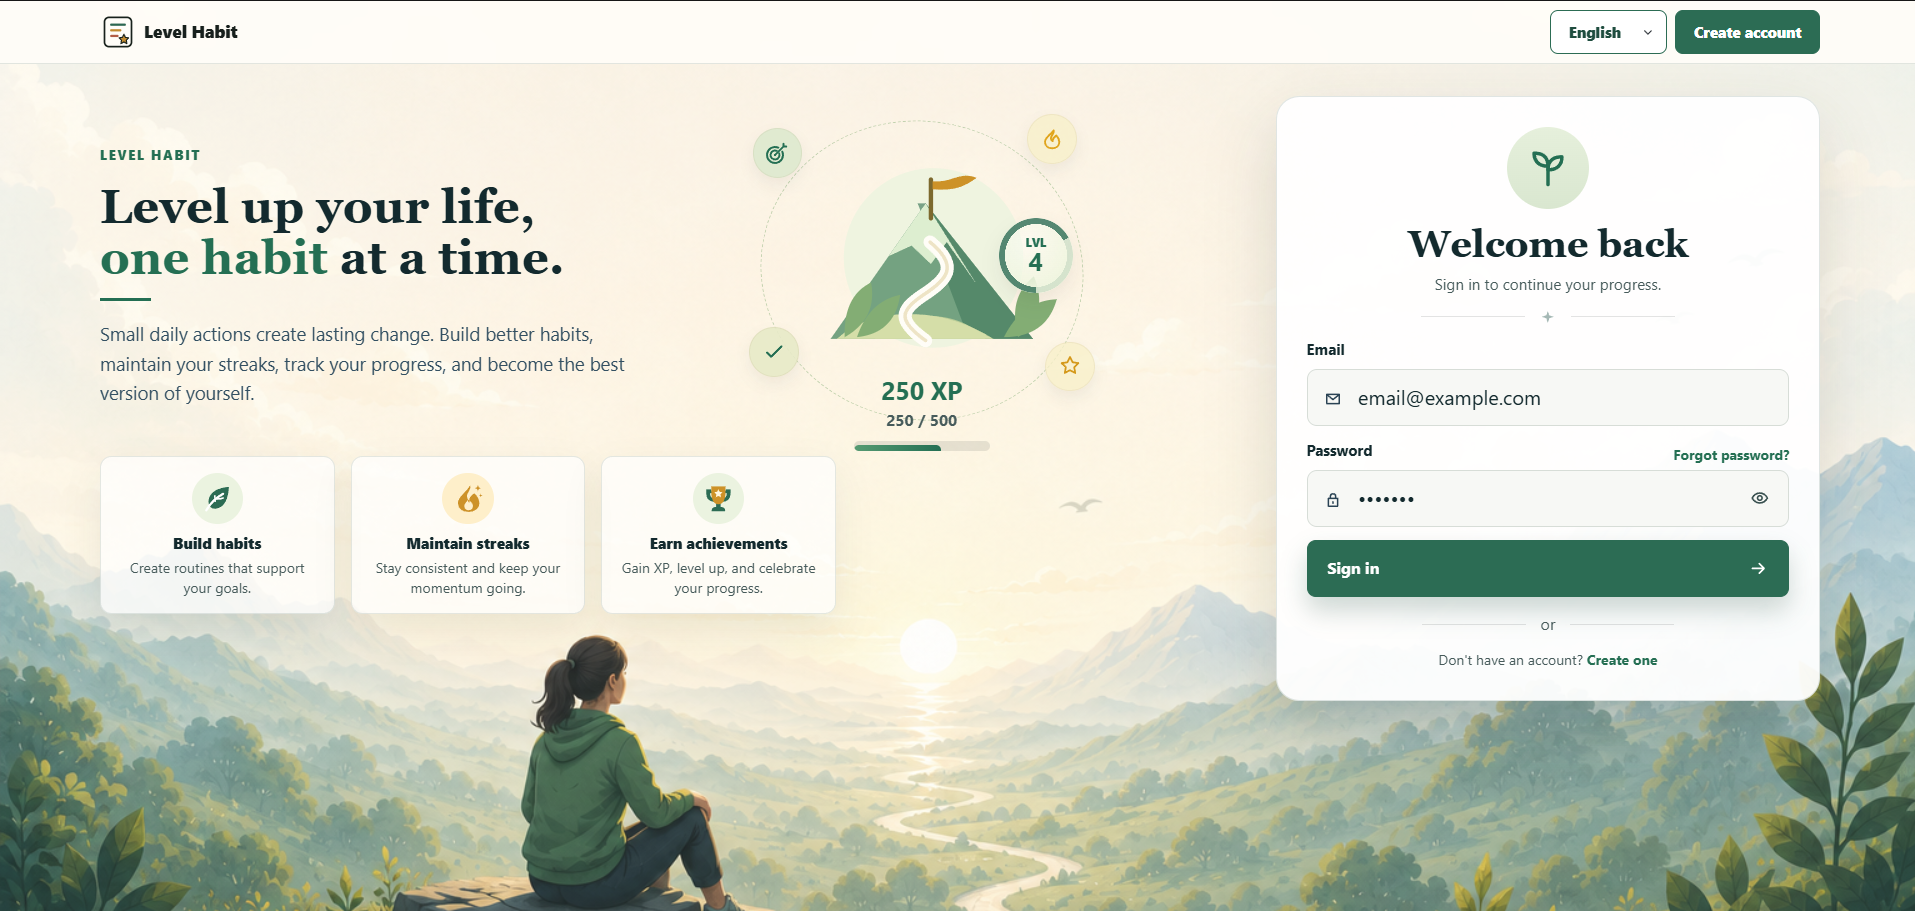
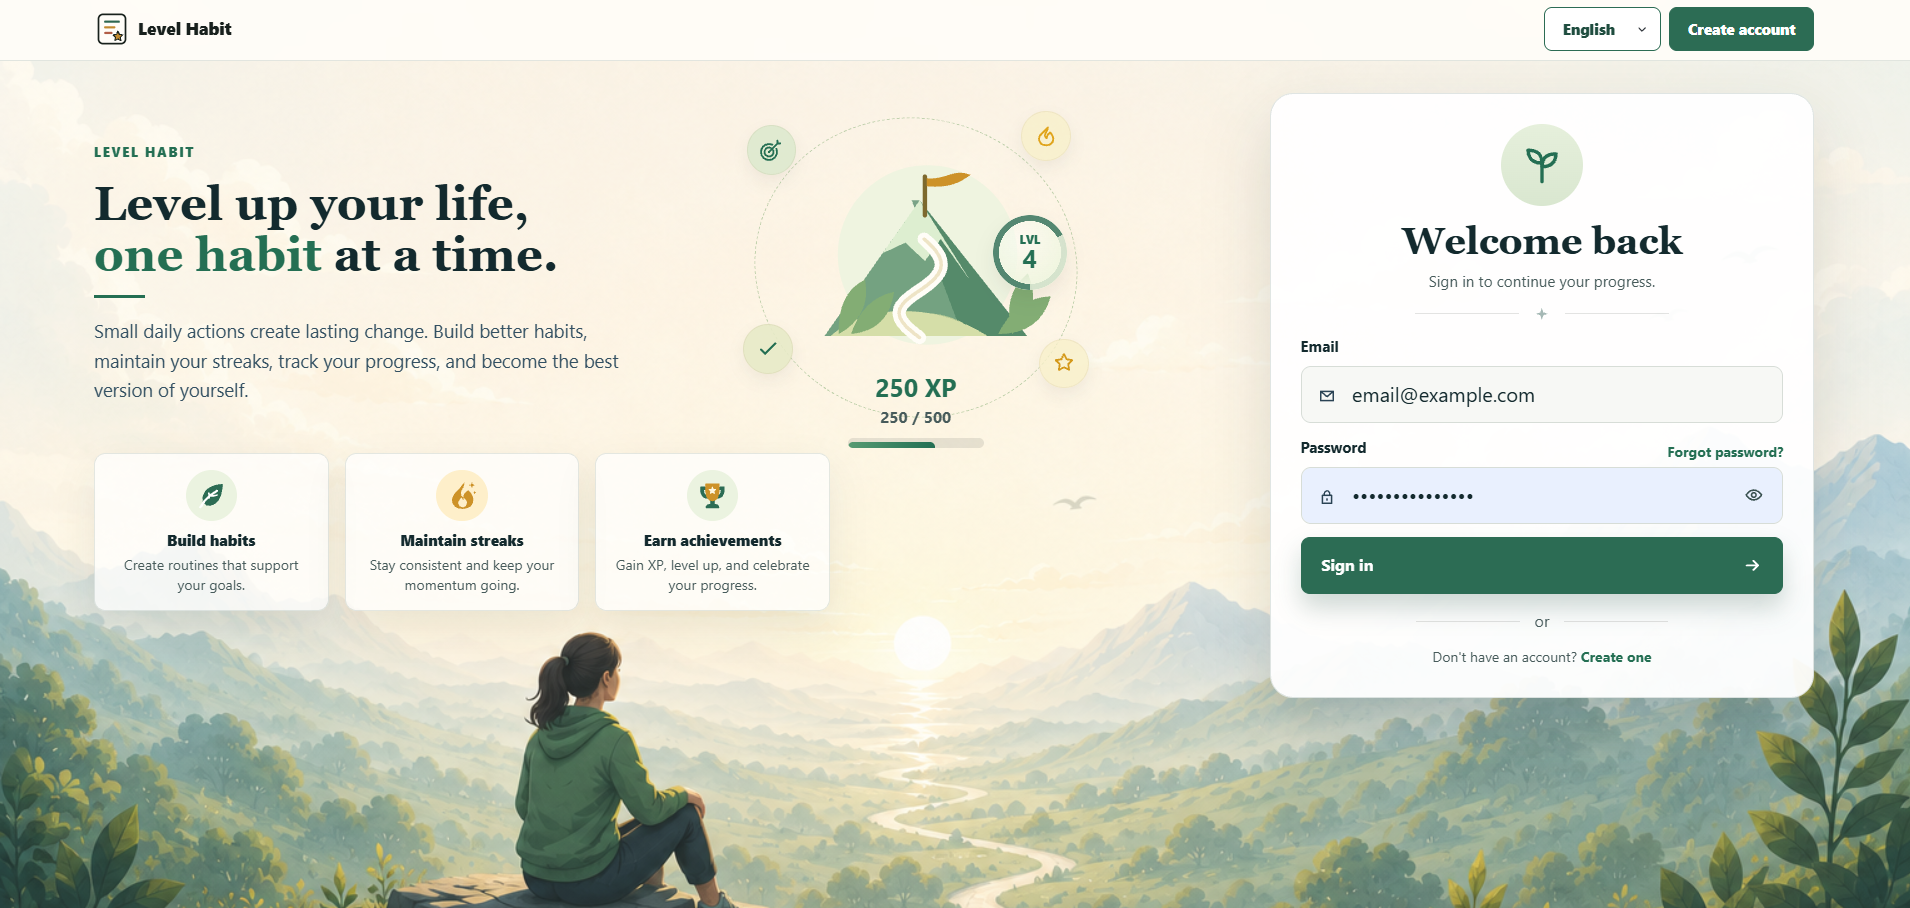
changed picture

diff --git a/src/app/projects.ts b/src/app/projects.ts
@@ -9,7 +9,7 @@ export const Projects = [
   {
     id: 2,
     github: 'https://github.com/nicolasfrechette91/LevelHabit',
-    image: 'https://nicolasfrechette91.github.io/portfolio/assets/images/levelHabit_login_2.png',
+    image: 'https://nicolasfrechette91.github.io/portfolio/assets/images/levelHabit_login.png',
     link: 'https://nicolasfrechette91.github.io/LevelHabit/',
     linkFrench: 'https://nicolasfrechette91.github.io/LevelHabit/',
     translationKey: 'projects.items.levelHabit',
